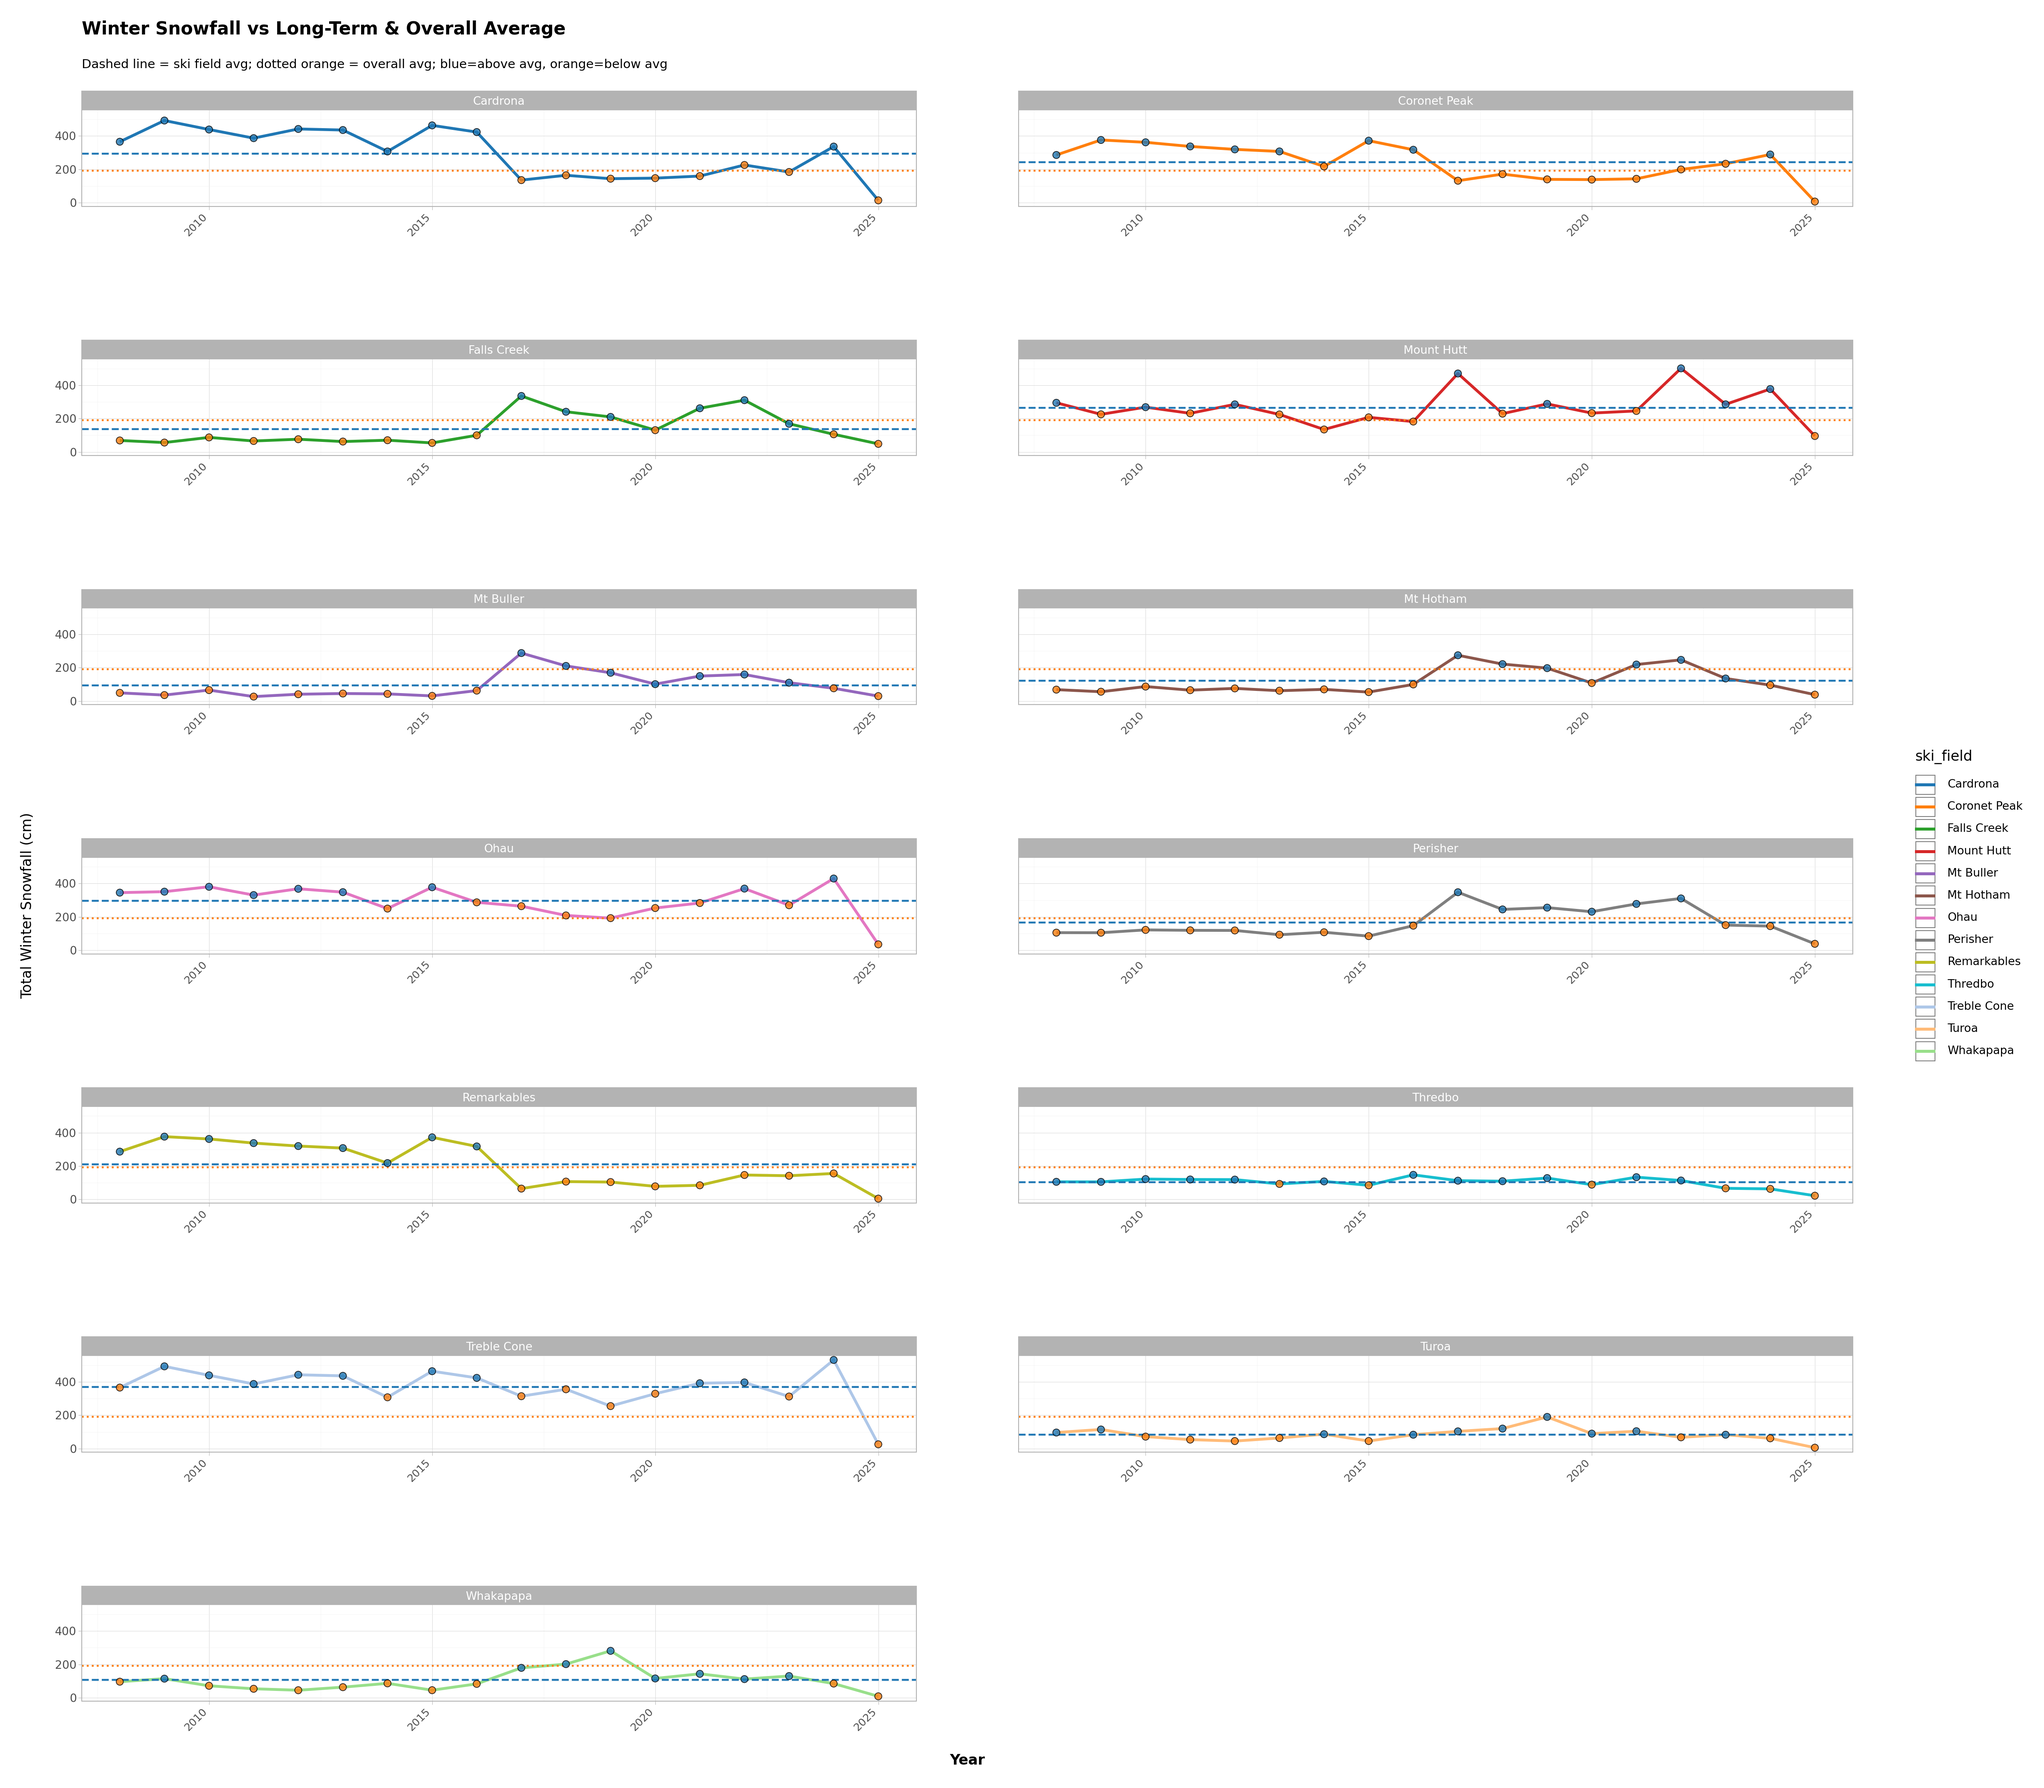
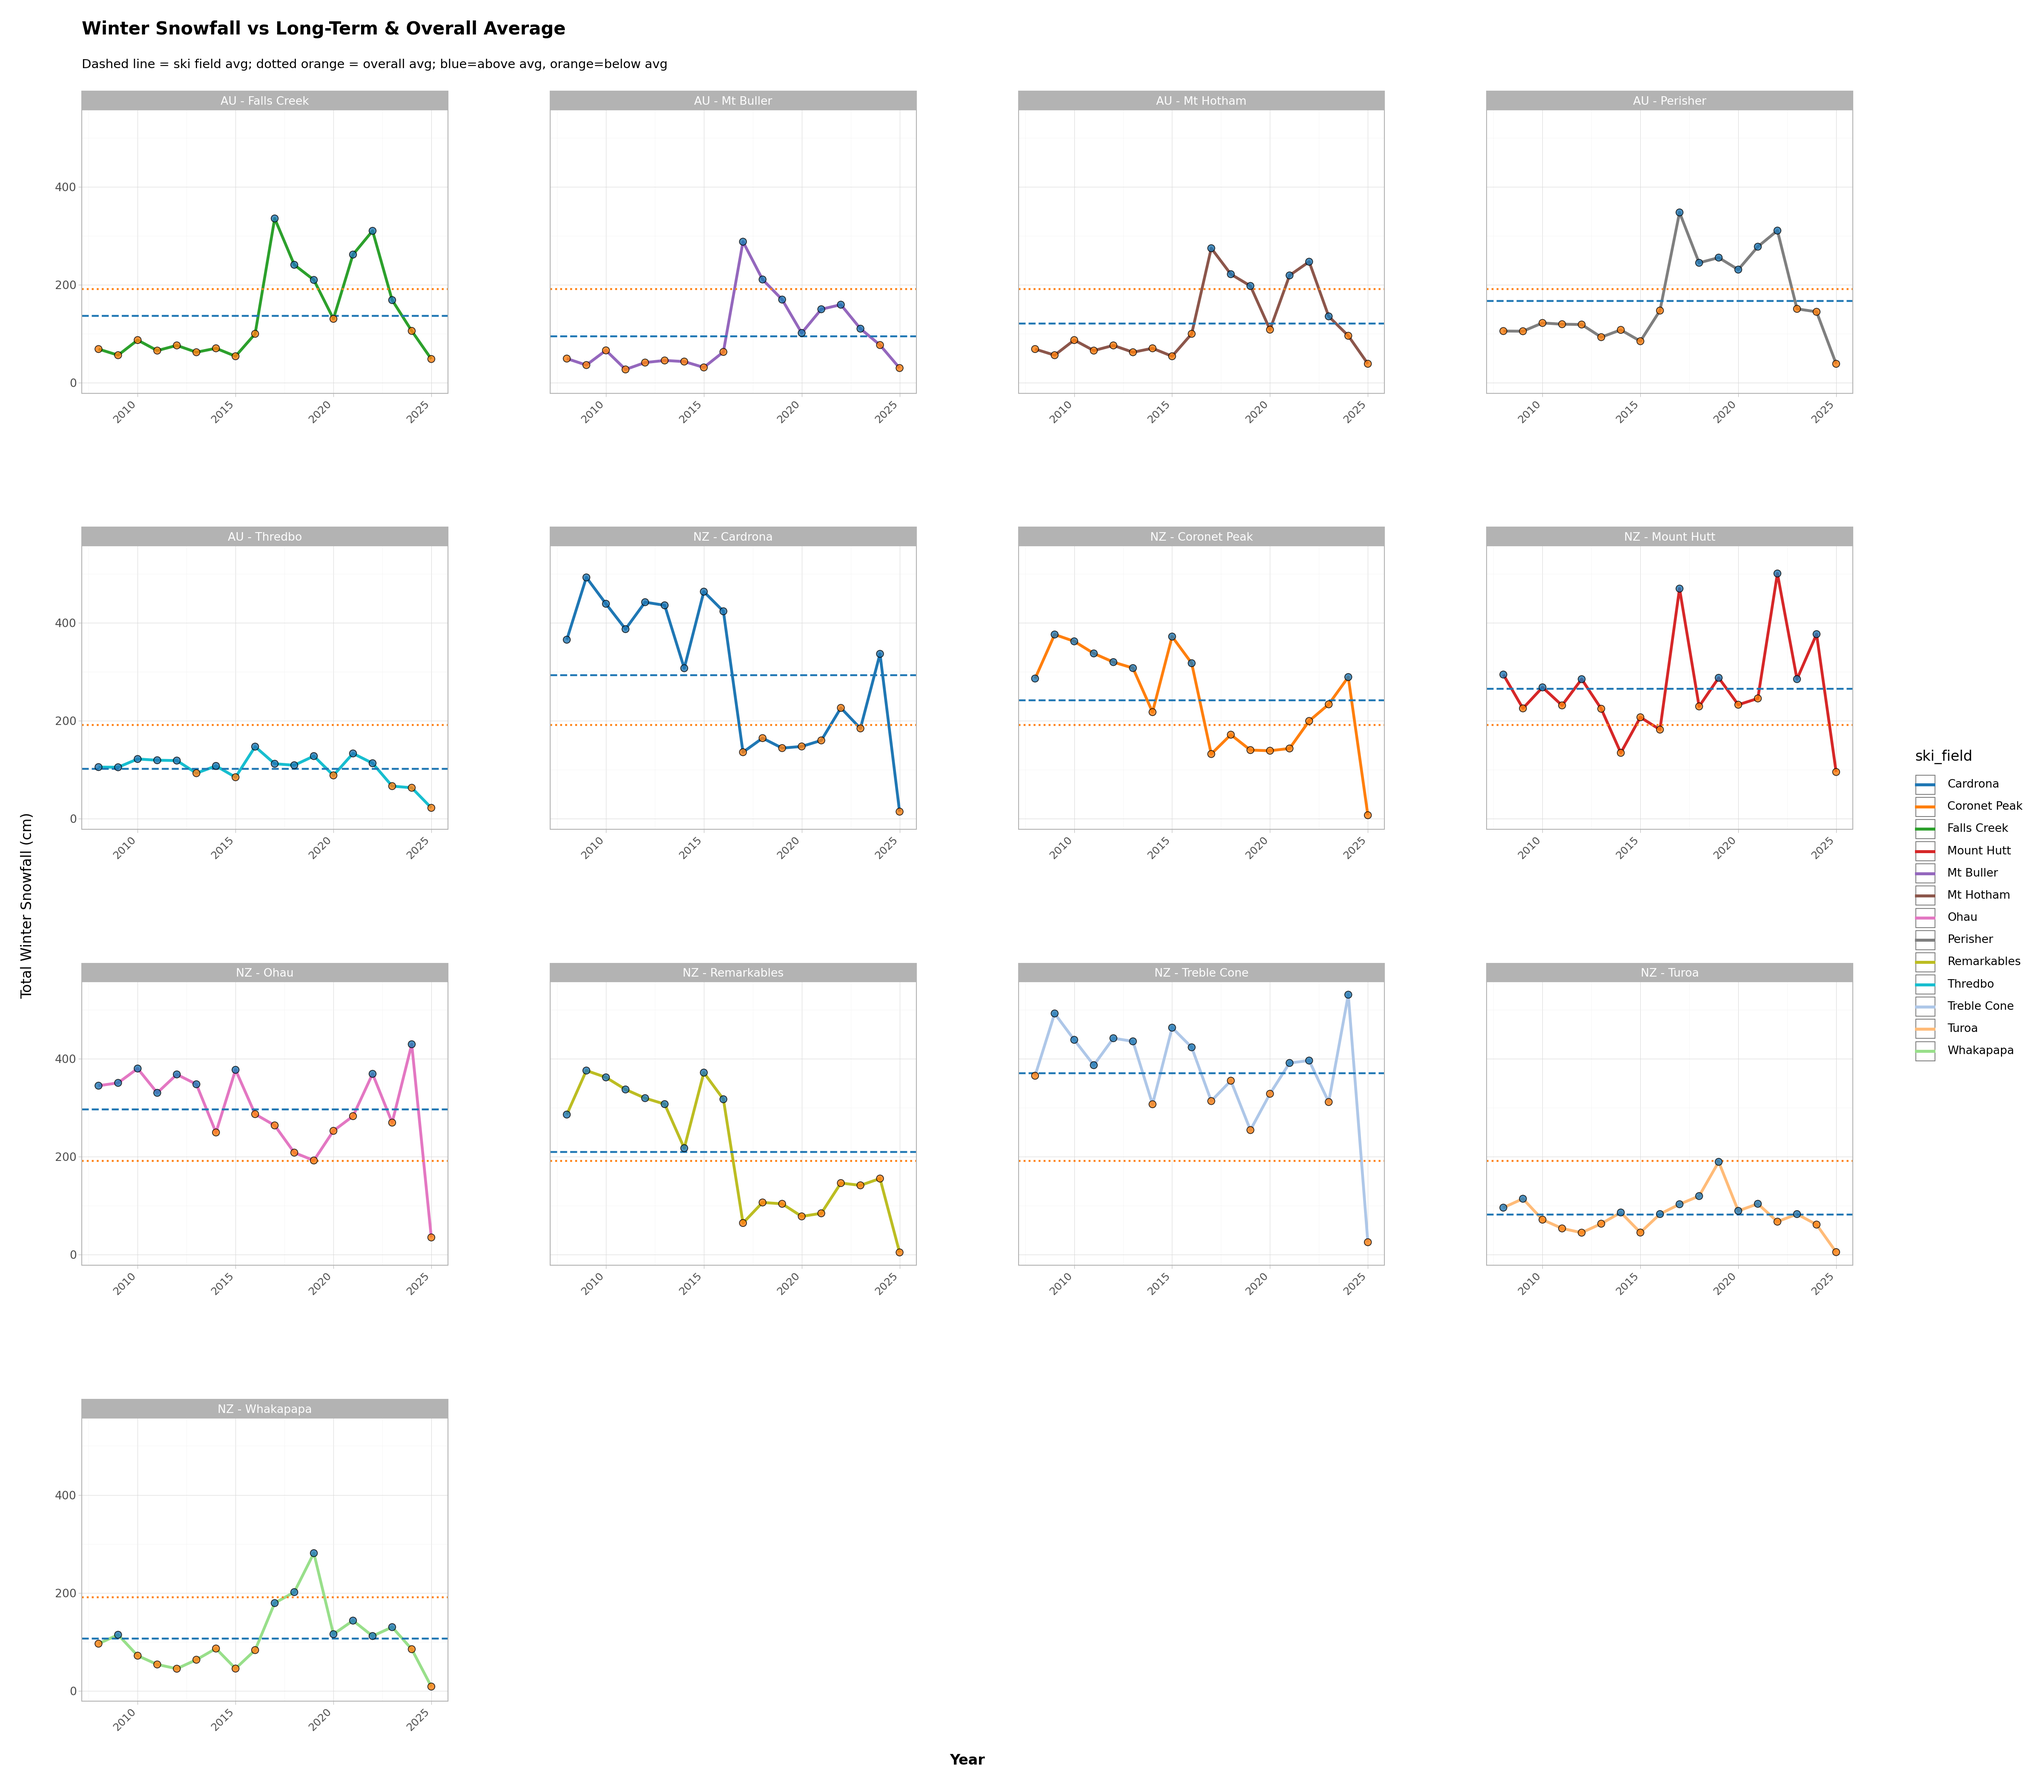
Quick fix, adding in Country code to charts

diff --git a/scripts/Python_Visual.py b/scripts/Python_Visual.py
@@ -22,12 +22,15 @@ con = duckdb.connect(database_string)
 # Query your analysis view
 df = con.execute("""
     SELECT
-        ski_field,
-        year_col,
-        month_col,
-        avg_daily_snowfall,
-        total_monthly_snowfall
-    FROM camonairflow.public_analysis.snowfall_winter_agg
+        snowfall.ski_field,
+        snowfall.year_col,
+        snowfall.month_col,
+        snowfall.avg_daily_snowfall,
+        snowfall.total_monthly_snowfall,
+        ski_lookup.country
+    FROM camonairflow.public_analysis.snowfall_winter_agg as snowfall
+    left join camonairflow.skifields.ski_field_lookup as ski_lookup 
+    on snowfall.ski_field = ski_lookup.name
 """).df()
 
 # Yearly aggregation from the monthly analysis
@@ -38,6 +41,9 @@ yearly = (
         total_winter_snowfall=('total_monthly_snowfall', 'sum')
     )
 )
+
+# Add country info to yearly
+yearly = yearly.merge(df[['ski_field', 'country']].drop_duplicates(), on='ski_field', how='left')
 
 # Calculate year-on-year change and long-term average
 yearly['prev_total'] = yearly.groupby('ski_field')['total_winter_snowfall'].shift(1)
@@ -55,6 +61,9 @@ color_list = [
     "#bcbd22", "#17becf", "#aec7e8", "#ffbb78", "#98df8a", "#ff9896", "#c5b0d5", "#c49c94"
 ]
 
+# Add this before plotting:
+yearly['facet_label'] = yearly['country'] + ' - ' + yearly['ski_field']
+
 # Plot 1: Yearly trend with change vs previous year
 p1 = (
     ggplot(yearly, aes('year_col', 'total_winter_snowfall', color='ski_field'))
@@ -66,7 +75,7 @@ p1 = (
            x='Year', y='Total Winter Snowfall (cm)')
     + scale_fill_manual(values={True: '#2ca02c', False: '#d62728'})
     + scale_color_manual(values=color_list)
-    + facet_wrap('~ski_field', scales='free_x', ncol=2)
+    + facet_wrap('~facet_label', scales='free_x', ncol=4)
     + theme_light(base_size=16)
     + theme(
         legend_position='right',
@@ -92,7 +101,7 @@ p2 = (
     )
     + scale_fill_manual(values={True: '#1f77b4', False: '#ff7f0e'})
     + scale_color_manual(values=color_list)
-    + facet_wrap('~ski_field', scales='free_x', ncol=2)
+    + facet_wrap('~facet_label', scales='free_x', ncol=4)
     + theme_light(base_size=16)
     + theme(
         legend_position='right',
